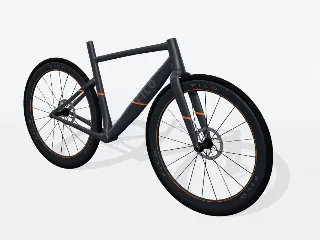
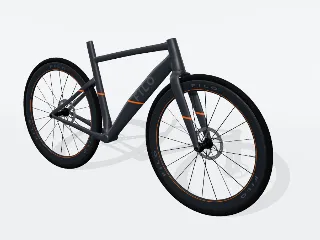
Ignore sliver triangles in the zone aspect and re-render the template thumbnails
The decal aspect was skewed by near-degenerate uv triangles at junctions,
and shifted with every re-export of the frame models. The thumbnails are
re-rendered against the new down tube.

Changed region(s): [[0.3438, 0.2333, 0.5312, 0.5542]]

diff --git a/src/rendering/zoneMetrics.ts b/src/rendering/zoneMetrics.ts
@@ -52,7 +52,8 @@ export function measureUVScale(geo: THREE.BufferGeometry): { su: number; sv: num
     const du2 = uvA.getX(c) - u0;
     const dv2 = uvA.getY(c) - v0;
     const det = du1 * dv2 - du2 * dv1;
-    if (Math.abs(det) < 1e-12) continue;
+    // Near-degenerate uv triangles (slivers at junctions) would dominate the mean.
+    if (Math.abs(det) < 1e-6) continue;
     // Invert the triangle's linear uv→world map for ∂world/∂u and ∂world/∂v.
     ju.copy(e1).multiplyScalar(dv2).addScaledVector(e2, -dv1).divideScalar(det);
     jv.copy(e2).multiplyScalar(du1).addScaledVector(e1, -du2).divideScalar(det);
